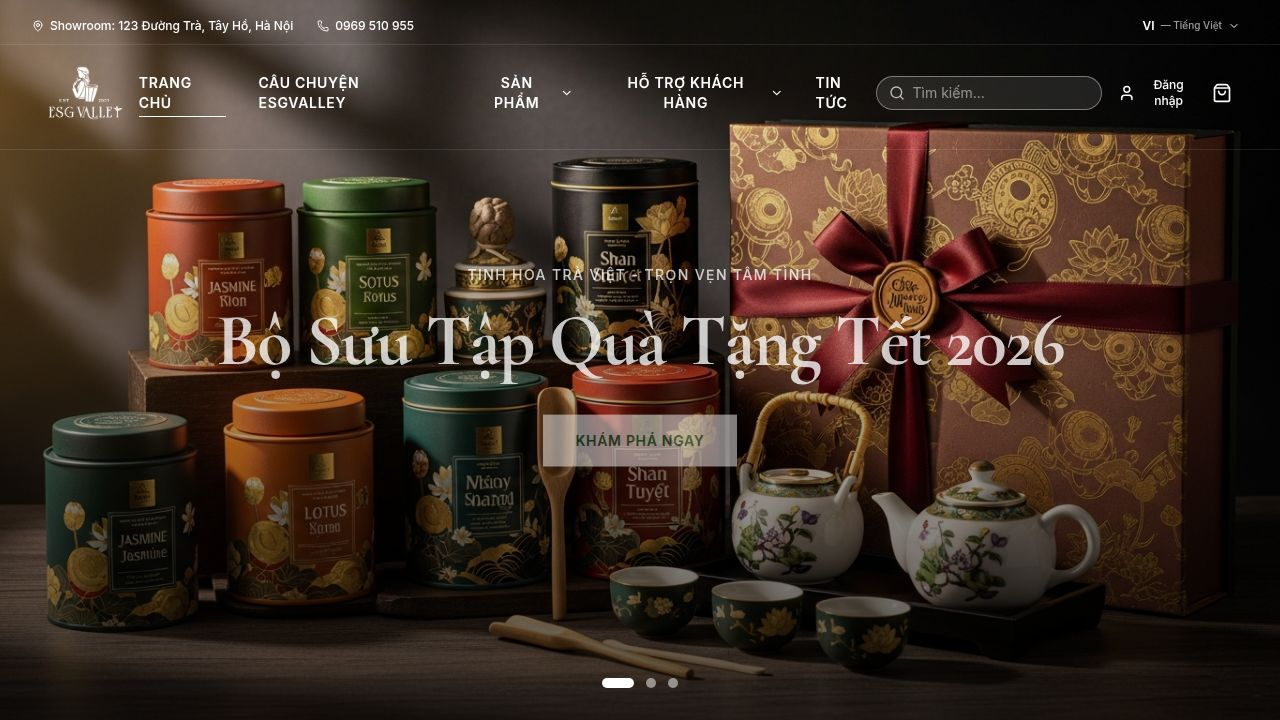
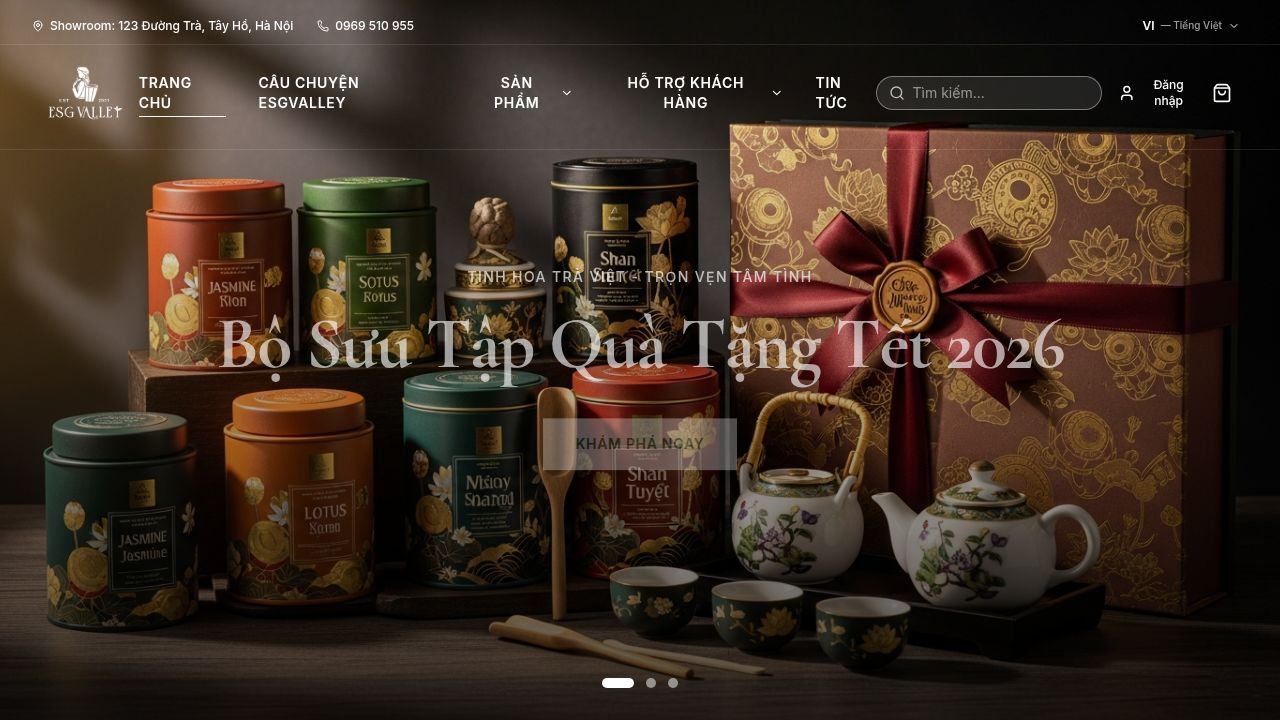
Redesign order lookup results with expanded layout and payment details
Update order lookup component to display total price, payment method, and a refined two-column layout, removing fixed max-width constraints.

Replit-Commit-Author: Agent
Replit-Commit-Session-Id: 393418b7-ca91-409f-8b2f-f4fb9c09fb83
Replit-Commit-Checkpoint-Type: full_checkpoint
Replit-Commit-Event-Id: 1f1e5238-367d-4977-86e8-280ad357f091
Replit-Commit-Screenshot-Url: https://storage.googleapis.com/screenshot-production-us-central1/6f4f4c7e-fa0c-4de9-baeb-699de7e36ad3/393418b7-ca91-409f-8b2f-f4fb9c09fb83/0y2sSRb
Replit-Helium-Checkpoint-Created: true

Changed region(s): [[0.1562, 0.4278, 0.8438, 0.6722], [0.375, 0.3667, 0.625, 0.3972]]

diff --git a/artifacts/esg-valley/src/pages/Support.tsx b/artifacts/esg-valley/src/pages/Support.tsx
@@ -361,8 +361,9 @@ export default function Support() {
         className="scroll-mt-24 max-w-6xl mx-auto px-6 lg:px-12 py-20"
       >
         <SectionHeading icon={Package} title="Tra Cứu Đơn Hàng" subtitle="Nhập mã đơn hàng để kiểm tra trạng thái giao hàng của bạn." />
-        <div className="mt-10 max-w-xl">
-          <form onSubmit={handleOrderLookup} className="flex gap-3">
+
+        <div className="mt-10">
+          <form onSubmit={handleOrderLookup} className="flex gap-3 max-w-2xl">
             <div className="flex-1 relative">
               <Search className="absolute left-3.5 top-1/2 -translate-y-1/2 w-4 h-4 text-muted-foreground" />
               <input
@@ -374,80 +375,115 @@ export default function Support() {
                 required
               />
             </div>
-            <button type="submit" className="px-6 py-3 bg-[#3d7a3d] text-white text-sm font-semibold rounded hover:bg-[#2f612f] transition-all whitespace-nowrap">
+            <button type="submit" className="px-7 py-3 bg-[#3d7a3d] text-white text-sm font-semibold rounded hover:bg-[#2f612f] transition-all whitespace-nowrap">
               Tra cứu
             </button>
           </form>
           <p className="text-xs text-muted-foreground mt-2">Mã đơn hàng được hiển thị sau khi đặt hàng thành công (bắt đầu bằng ESG).</p>
 
           <AnimatePresence>
-            {foundOrder && (
-              <motion.div
-                initial={{ opacity: 0, y: 10 }}
-                animate={{ opacity: 1, y: 0 }}
-                exit={{ opacity: 0, y: 10 }}
-                className="mt-6 border border-gray-200 rounded-lg overflow-hidden"
-              >
-                <div className="bg-green-50 border-b border-gray-100 px-5 py-4 flex items-center gap-3">
-                  <CheckCircle className="w-5 h-5 text-green-600" />
-                  <p className="font-semibold text-green-800 text-sm">Đơn hàng: <span className="font-mono">{foundOrder.code}</span></p>
-                </div>
-                <div className="px-5 py-5 space-y-3 bg-white">
-                  <Row label="Trạng thái">
-                    <span className="font-semibold text-blue-600 flex items-center gap-1 text-sm">
-                      <Truck className="w-3.5 h-3.5" /> {foundOrder.status}
+            {foundOrder && (() => {
+              const total = foundOrder.items.reduce((sum, { product, quantity }) => sum + product.price * quantity, 0);
+              const fmtPrice = (n: number) => n.toLocaleString("vi-VN") + "₫";
+              const steps = ["Đã đặt hàng", "Đang xử lý", "Đang vận chuyển", "Hoàn tất"];
+              const currentIdx = steps.indexOf(foundOrder.status);
+              const PAYMENT_LABELS: Record<string, string> = {
+                cod: "Thanh toán khi nhận hàng (COD)",
+                bank: "Chuyển khoản ngân hàng",
+                vietqr: "VietQR",
+                zalopay: "ZaloPay",
+                visa: "Visa / Mastercard",
+                atm: "Thẻ ATM nội địa",
+                paypal: "PayPal",
+                momo: "Ví MoMo",
+              };
+              return (
+                <motion.div
+                  initial={{ opacity: 0, y: 14 }}
+                  animate={{ opacity: 1, y: 0 }}
+                  exit={{ opacity: 0, y: 14 }}
+                  className="mt-8 border border-gray-200 rounded-xl overflow-hidden shadow-sm"
+                >
+                  {/* Header */}
+                  <div className="bg-[#3d7a3d] px-6 py-4 flex items-center justify-between">
+                    <div className="flex items-center gap-3">
+                      <CheckCircle className="w-5 h-5 text-white" />
+                      <div>
+                        <p className="text-xs text-green-100 uppercase tracking-widest font-semibold">Mã đơn hàng</p>
+                        <p className="font-mono text-xl font-bold text-white tracking-wider">{foundOrder.code}</p>
+                      </div>
+                    </div>
+                    <span className={`px-3 py-1.5 rounded-full text-xs font-bold uppercase tracking-wide ${
+                      foundOrder.status === "Hoàn tất" ? "bg-white/20 text-white" :
+                      foundOrder.status === "Đã huỷ"  ? "bg-red-100 text-red-700" :
+                      "bg-white/20 text-white"
+                    }`}>
+                      {foundOrder.status}
                     </span>
-                  </Row>
-                  <Row label="Ngày đặt hàng">
-                    <span className="font-semibold text-sm">
-                      {new Date(foundOrder.createdAt).toLocaleString("vi-VN", { day: "2-digit", month: "2-digit", year: "numeric", hour: "2-digit", minute: "2-digit" })}
-                    </span>
-                  </Row>
-                  <Row label="Người đặt">
-                    <span className="font-semibold text-sm">{foundOrder.buyer.name} — {foundOrder.buyer.phone}</span>
-                  </Row>
-                  <Row label="Địa chỉ giao">
-                    <span className="font-semibold text-right text-sm max-w-[55%]">{foundOrder.buyer.address}</span>
-                  </Row>
-
-                  <div className="pt-3 border-t border-gray-100">
-                    <p className="text-xs text-muted-foreground font-semibold uppercase tracking-wider mb-2">Sản phẩm đặt</p>
-                    <ul className="space-y-1">
-                      {foundOrder.items.map(({ product, quantity }) => (
-                        <li key={product.id} className="flex justify-between text-sm">
-                          <span>{product.name}</span>
-                          <span className="font-semibold text-muted-foreground">x{quantity}</span>
-                        </li>
-                      ))}
-                    </ul>
                   </div>
 
-                  <div className="pt-3 border-t border-gray-100">
-                    {(() => {
-                      const steps = ["Đã đặt hàng", "Đang xử lý", "Đang vận chuyển", "Hoàn tất"];
-                      const currentIdx = steps.indexOf(foundOrder.status);
-                      return (
-                        <div className="flex items-center">
-                          {steps.map((s, i) => (
-                            <div key={s} className="flex items-center flex-1">
-                              <div className="flex flex-col items-center flex-1">
-                                <div className={`w-6 h-6 rounded-full flex items-center justify-center text-xs font-bold ${i <= currentIdx ? "bg-[#3d7a3d] text-white" : "bg-gray-100 border-2 border-gray-200 text-gray-400"}`}>
-                                  {i <= currentIdx ? <CheckCircle className="w-3.5 h-3.5" /> : i + 1}
-                                </div>
-                                <span className="text-[9px] mt-1 text-center text-muted-foreground leading-tight">{s}</span>
-                              </div>
-                              {i < steps.length - 1 && (
-                                <div className={`h-0.5 flex-1 mb-4 ${i < currentIdx ? "bg-[#3d7a3d]" : "bg-gray-200"}`} />
-                              )}
+                  {/* Body: 2 columns */}
+                  <div className="bg-white grid grid-cols-1 md:grid-cols-2 divide-y md:divide-y-0 md:divide-x divide-gray-100">
+                    {/* Left: Thông tin đơn hàng */}
+                    <div className="p-6 space-y-4">
+                      <p className="text-xs text-muted-foreground font-semibold uppercase tracking-widest mb-3">Thông tin đơn hàng</p>
+                      <InfoRow label="Ngày đặt">
+                        {new Date(foundOrder.createdAt).toLocaleString("vi-VN", { day: "2-digit", month: "2-digit", year: "numeric", hour: "2-digit", minute: "2-digit" })}
+                      </InfoRow>
+                      <InfoRow label="Người đặt">{foundOrder.buyer.name}</InfoRow>
+                      <InfoRow label="Số điện thoại">{foundOrder.buyer.phone}</InfoRow>
+                      <InfoRow label="Địa chỉ giao hàng">{foundOrder.buyer.address}</InfoRow>
+                      {foundOrder.buyer.note && (
+                        <InfoRow label="Ghi chú">{foundOrder.buyer.note}</InfoRow>
+                      )}
+                      <InfoRow label="Hình thức thanh toán">
+                        {PAYMENT_LABELS[foundOrder.buyer.paymentMethod] ?? foundOrder.buyer.paymentMethod}
+                      </InfoRow>
+                    </div>
+
+                    {/* Right: Sản phẩm + tổng tiền */}
+                    <div className="p-6 flex flex-col">
+                      <p className="text-xs text-muted-foreground font-semibold uppercase tracking-widest mb-3">Sản phẩm đặt</p>
+                      <ul className="space-y-3 flex-1">
+                        {foundOrder.items.map(({ product, quantity }) => (
+                          <li key={product.id} className="flex items-center justify-between gap-4 text-sm">
+                            <span className="text-foreground font-medium">{product.name}</span>
+                            <div className="flex items-center gap-4 shrink-0">
+                              <span className="text-muted-foreground text-xs">x{quantity}</span>
+                              <span className="font-semibold text-foreground tabular-nums">{fmtPrice(product.price * quantity)}</span>
                             </div>
-                          ))}
-                        </div>
-                      );
-                    })()}
+                          </li>
+                        ))}
+                      </ul>
+                      <div className="mt-4 pt-4 border-t border-gray-100 flex justify-between items-center">
+                        <span className="text-sm font-semibold text-foreground">Tổng tiền</span>
+                        <span className="text-lg font-bold text-[#3d7a3d] tabular-nums">{fmtPrice(total)}</span>
+                      </div>
+                    </div>
                   </div>
-                </div>
-              </motion.div>
-            )}
+
+                  {/* Progress tracker */}
+                  <div className="bg-gray-50 border-t border-gray-100 px-6 py-5">
+                    <p className="text-xs text-muted-foreground font-semibold uppercase tracking-widest mb-4">Trạng thái đơn hàng</p>
+                    <div className="flex items-center">
+                      {steps.map((s, i) => (
+                        <div key={s} className="flex items-center flex-1">
+                          <div className="flex flex-col items-center flex-1">
+                            <div className={`w-7 h-7 rounded-full flex items-center justify-center text-xs font-bold transition-colors ${i <= currentIdx ? "bg-[#3d7a3d] text-white" : "bg-white border-2 border-gray-200 text-gray-400"}`}>
+                              {i <= currentIdx ? <CheckCircle className="w-4 h-4" /> : i + 1}
+                            </div>
+                            <span className="text-[10px] mt-1.5 text-center text-muted-foreground leading-tight font-medium">{s}</span>
+                          </div>
+                          {i < steps.length - 1 && (
+                            <div className={`h-0.5 flex-1 mb-5 transition-colors ${i < currentIdx ? "bg-[#3d7a3d]" : "bg-gray-200"}`} />
+                          )}
+                        </div>
+                      ))}
+                    </div>
+                  </div>
+                </motion.div>
+              );
+            })()}
 
             {orderNotFound && (
               <motion.div
@@ -491,6 +527,15 @@ function Row({ label, children }: { label: string; children: React.ReactNode }) 
     <div className="flex justify-between items-center text-sm">
       <span className="text-muted-foreground">{label}</span>
       {children}
+    </div>
+  );
+}
+
+function InfoRow({ label, children }: { label: string; children: React.ReactNode }) {
+  return (
+    <div className="flex flex-col gap-0.5">
+      <span className="text-xs text-muted-foreground">{label}</span>
+      <span className="text-sm font-semibold text-foreground">{children}</span>
     </div>
   );
 }